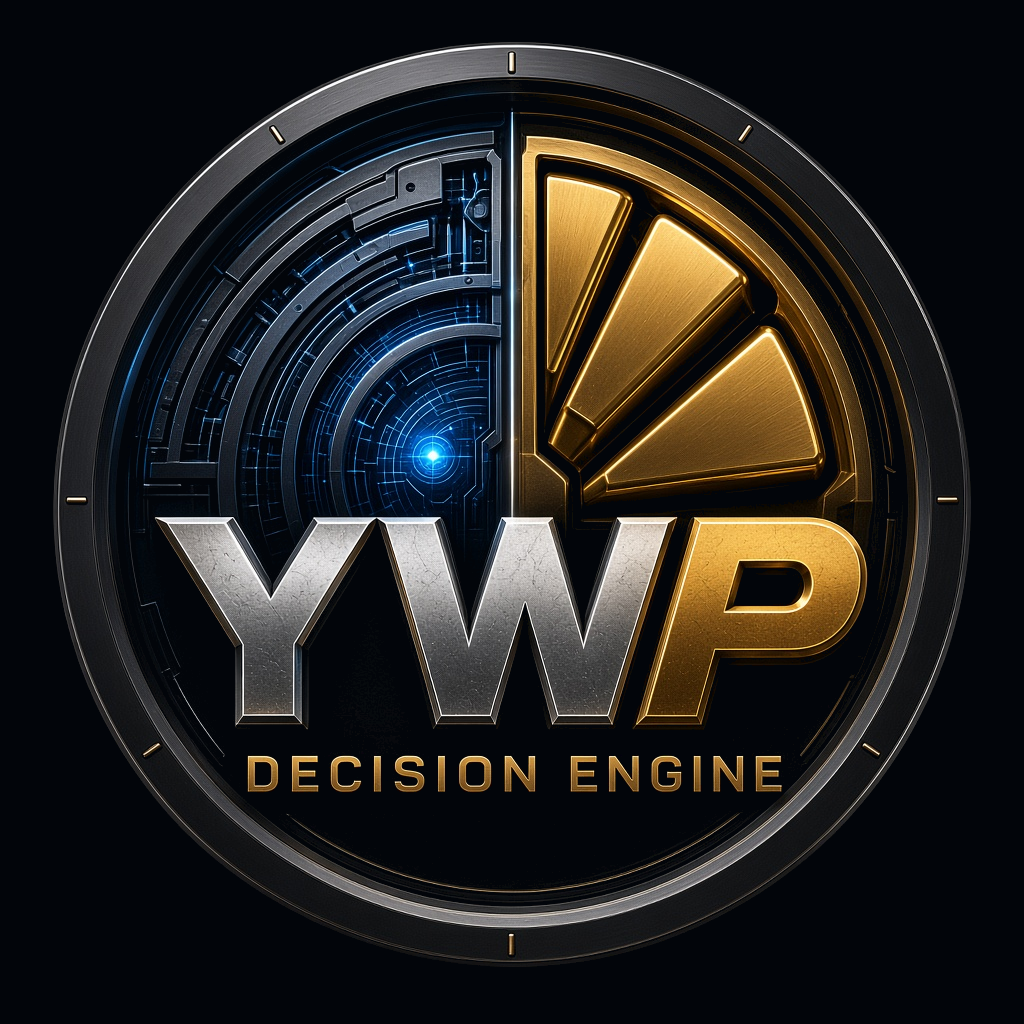
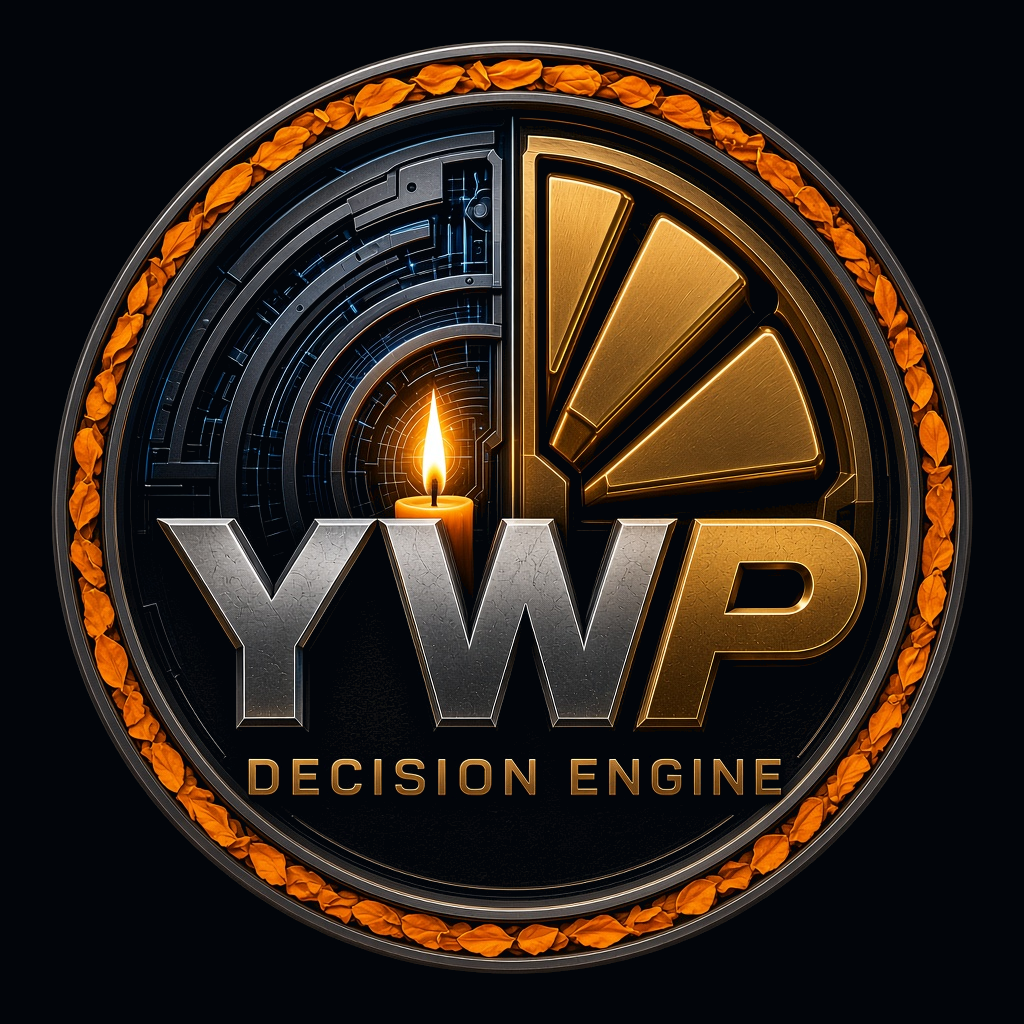
Set the Decision Engine mark for Día de Muertos.
The live-read point is a candle and the bezel is a machined marigold ring. The lock, the wordmark, and the launcher cuts stay the same plate.

diff --git a/mobile/src/brandAssets.ts b/mobile/src/brandAssets.ts
@@ -12,7 +12,7 @@ import type { ImageSourcePropType } from "react-native";
  * Drop a replacement mp4 at the same path to upgrade the art without code changes.
  */
 export const brandAssets = {
-  /** Primary mark everywhere — live read on the left, Lock Check on the right */
+  /** Primary mark — live read, Lock Check, and the Día de Muertos candle ring */
   crest: require("../assets/brand/vision/decision-engine-mark.png"),
   minimalLight: require("../assets/brand/ywp-minimal.png"),
   bootSequence: require("../assets/brand/boot-sequence.gif"),
